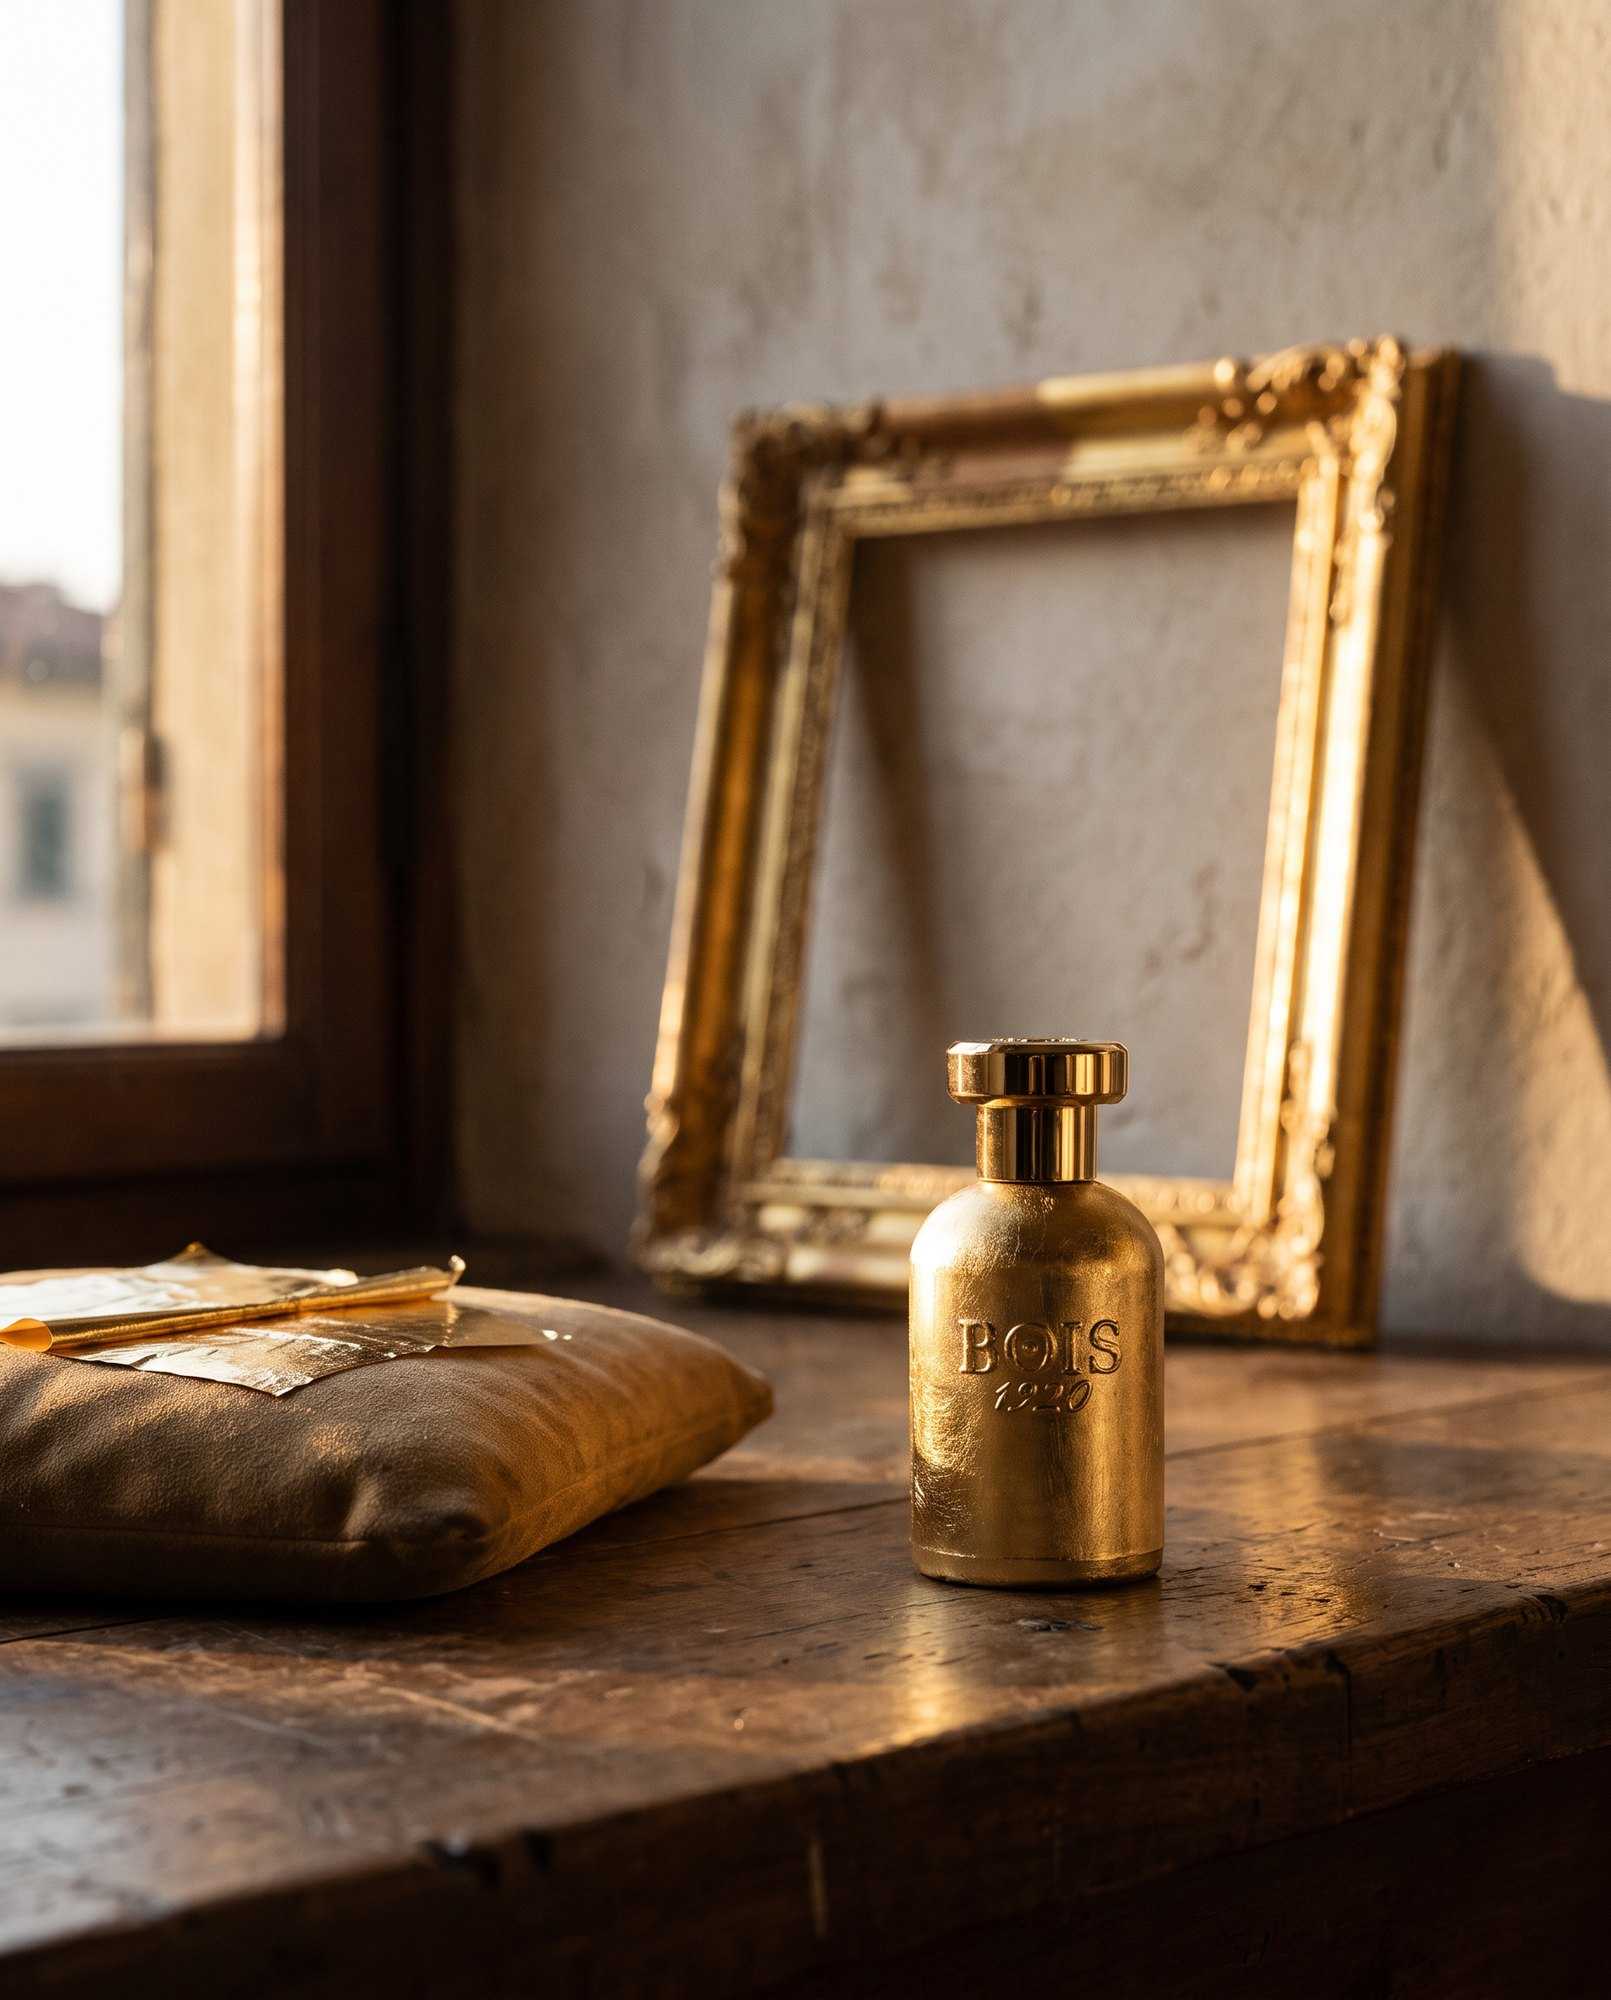
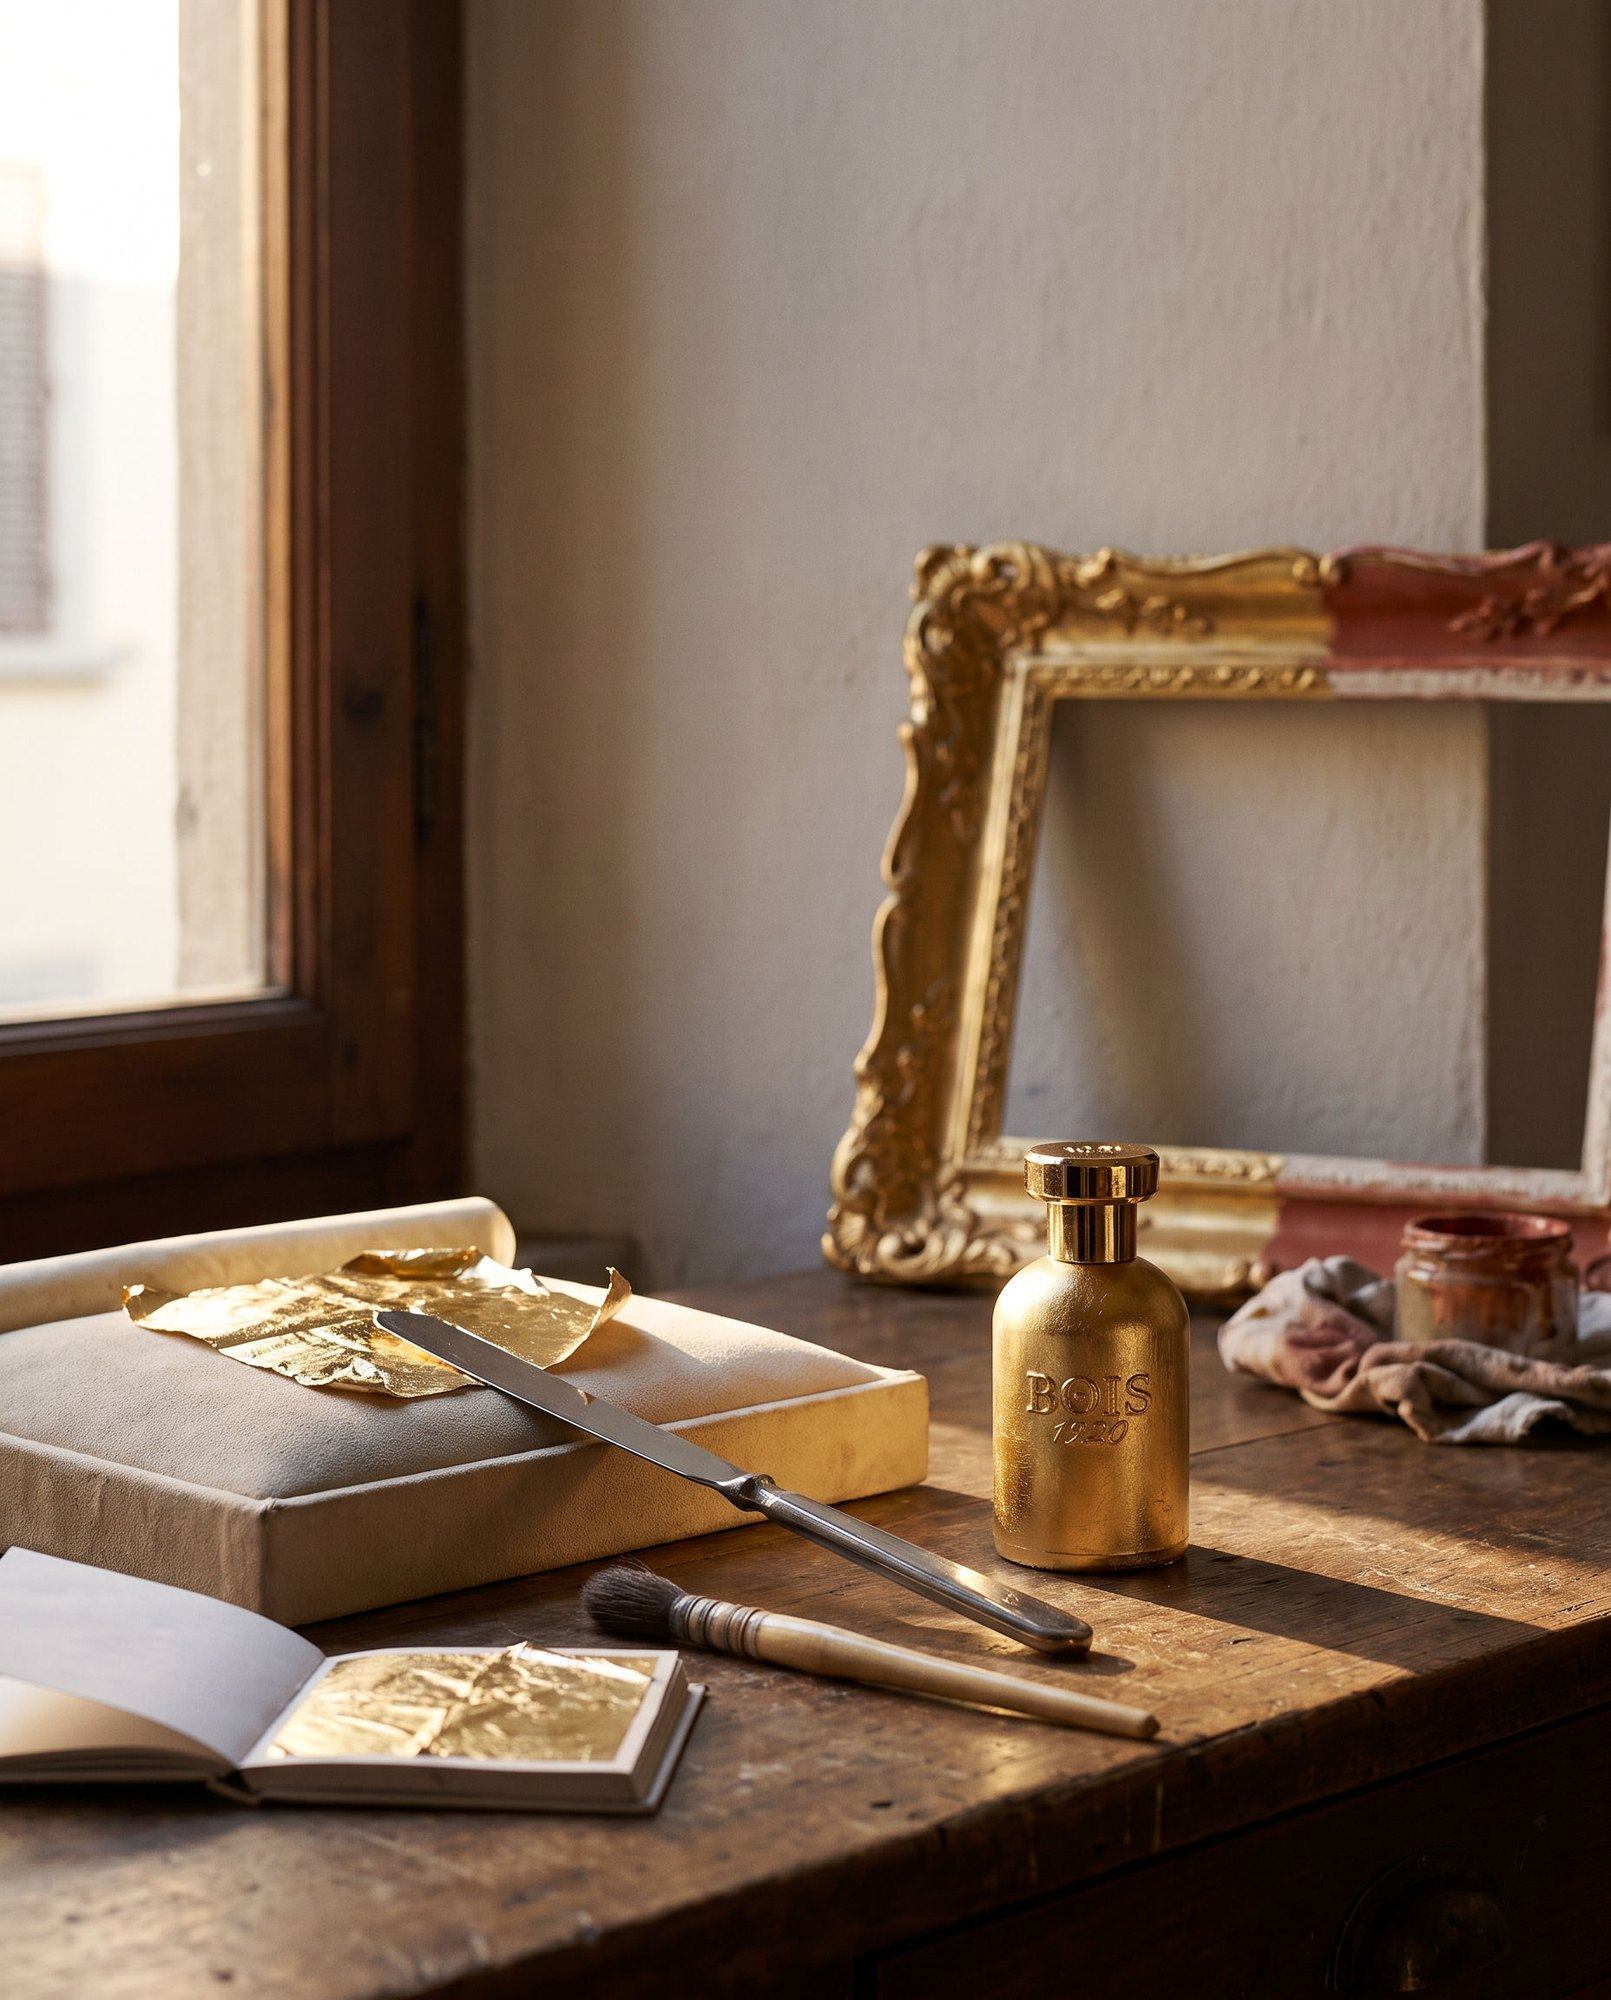
prova Oro 1920: still v2 (4 frame)

diff --git a/prova/bois-1920/index.html b/prova/bois-1920/index.html
@@ -46,22 +46,26 @@
 
   <div class="grid" style="margin-top:44px">
     <figure class="wide">
-      <img src="oro-1920-01-bottega.jpg" width="1611" height="2000" alt="Oro 1920 sul banco del doratore, luce di fine pomeriggio">
-      <figcaption><span><b>01 · Il banco</b> — cuscino da doratore, foglia d'oro, cornice in lavorazione</span><span>4:5</span></figcaption>
+      <img src="oro-1920-01-bottega.jpg" width="1611" height="2000" alt="Oro 1920 sul banco del doratore: foglia d'oro, coltello, cornice in lavorazione">
+      <figcaption><span><b>01 · Il banco</b> — foglia d'oro, coltello e pennello del doratore, la cornice a metà con il bolo rosso</span><span>4:5</span></figcaption>
     </figure>
     <figure>
       <img src="oro-1920-02-scaffale.jpg" width="1611" height="2000" alt="Oro 1920 sullo scaffale, candela di cera d'api e incenso">
-      <figcaption><span><b>02 · Lo scaffale</b> — cera d'api, incenso, cornici finite</span><span>4:5</span></figcaption>
+      <figcaption><span><b>02 · Lo scaffale</b> — cera d'api, incenso, cornici finite, il crepuscolo alla finestra</span><span>4:5</span></figcaption>
     </figure>
     <figure>
-      <img src="oro-1920-03-macro.jpg" width="1611" height="2000" alt="Dettaglio della foglia d'oro e dell'incisione BOIS 1920">
-      <figcaption><span><b>03 · La foglia</b> — l'incisione e la doratura, da vicino</span><span>4:5</span></figcaption>
+      <img src="oro-1920-03-macro.jpg" width="1611" height="2000" alt="Dettaglio della foglia d'oro e dell'incisione BOIS 1920 a lume di candela">
+      <figcaption><span><b>03 · La foglia</b> — l'incisione e la doratura, a lume di candela</span><span>4:5</span></figcaption>
+    </figure>
+    <figure>
+      <img src="oro-1920-04-astuccio.jpg" width="1611" height="2000" alt="Oro 1920 con il suo astuccio: la cornice stampata e la cornice vera">
+      <figcaption><span><b>04 · L'astuccio</b> — la cornice stampata e la cornice vera, nello stesso set</span><span>4:5</span></figcaption>
     </figure>
   </div>
 
   <div class="note">
     <p>Serie completa su Oro 1920: otto-dieci immagini in questo mondo, formati per e-commerce, social e stampa, e un film verticale di quindici secondi, con sound design, dalla stessa produzione. Prima consegna in cinque-sette giorni dal via.</p>
-    <p>Immagini prodotte con direzione fotografica e strumenti generativi a partire dal vostro packshot ufficiale: il prodotto non è stato modificato. Serie in revisione, versione del 17 settembre.</p>
+    <p>Immagini prodotte con direzione fotografica e strumenti generativi a partire dal vostro packshot ufficiale: il prodotto non è stato modificato. Versione del 17 settembre, sera.</p>
     <p>Matteo Palumbo · 393 332 5473 · <a href="mailto:matteopalumboph@gmail.com">matteopalumboph@gmail.com</a> · <a href="../../">Portfolio</a></p>
   </div>
 </main>
